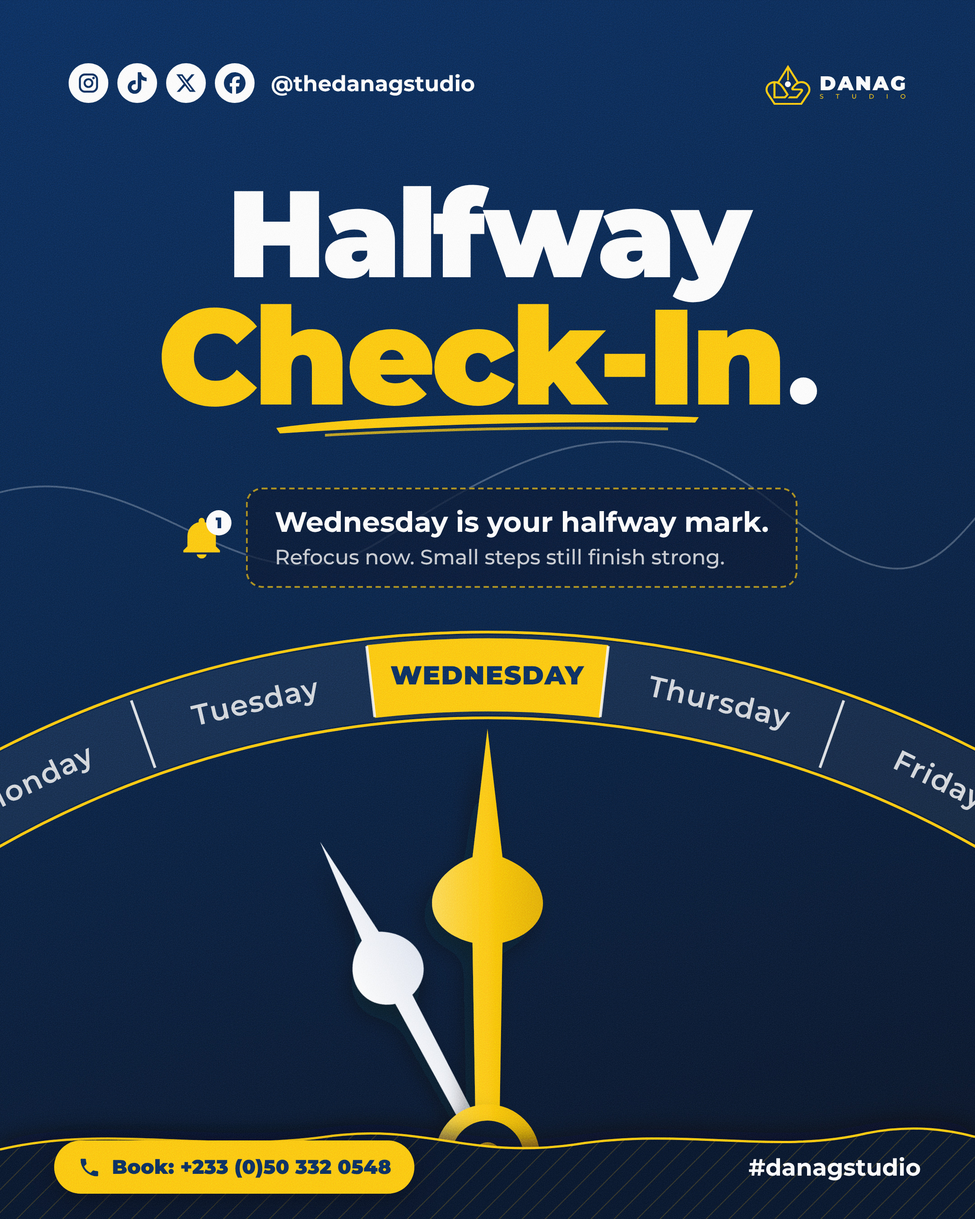
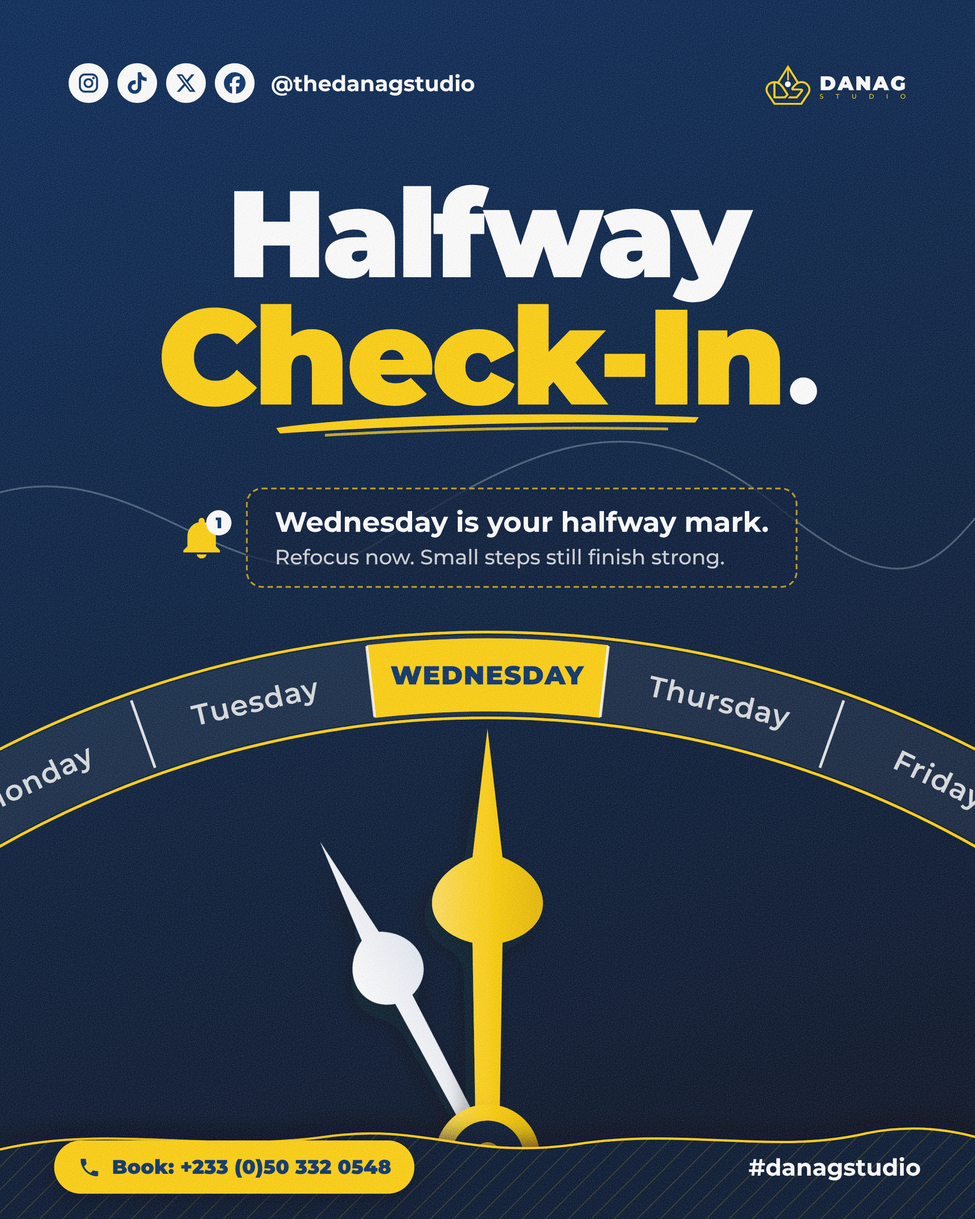
Wed 25 Nov: deeper grain
Claude-Session: https://claude.ai/code/session_016a1VN4sEuNiBsko23wNLQZ

diff --git a/promo/render_wed_dial.py b/promo/render_wed_dial.py
@@ -9,8 +9,8 @@ OUT=sys.argv[1] if len(sys.argv)>1 else f'{R}/flyers/2026-11-25-v1'
 logo=re.sub(r'<\?xml[^>]*>','',open('/home/claude/brand/DANAG-STUDIO-horizontal-on-navy.svg').read()).replace('<svg','<svg style="height:44px;width:auto;display:block"',1)
 ic=lambda k,c,s=20: f'<svg viewBox="0 0 24 24" width="{s}" height="{s}" style="color:{c};flex:none">{IC[k]}</svg>'
 CSS=f'''@font-face{{font-family:M;font-weight:500;src:url({F}montserrat-latin-500-normal.woff2)}}@font-face{{font-family:M;font-weight:600;src:url({F}montserrat-latin-600-normal.woff2)}}@font-face{{font-family:M;font-weight:700;src:url({F}montserrat-latin-700-normal.woff2)}}@font-face{{font-family:M;font-weight:900;src:url({F}montserrat-latin-900-normal.woff2)}}
-*{{margin:0;padding:0;box-sizing:border-box}}body{{width:1080px;height:1350px;overflow:hidden;position:relative;font-family:M;background:linear-gradient(165deg,#022452 0%,#011b3e 45%,#011129 80%,#010b1c 100%)}}.a{{position:absolute}}'''
-noise='''<svg class="a" style="inset:0;width:1080px;height:1350px;z-index:20;pointer-events:none;mix-blend-mode:overlay;opacity:.7"><filter id="nz"><feTurbulence type="fractalNoise" baseFrequency=".9" numOctaves="3" stitchTiles="stitch"/><feColorMatrix type="saturate" values="0"/></filter><rect width="100%" height="100%" filter="url(#nz)"/></svg>'''
+*{{margin:0;padding:0;box-sizing:border-box}}body{{width:1080px;height:1350px;overflow:hidden;position:relative;font-family:M;background:linear-gradient(165deg,#011c44 0%,#01142f 45%,#010c20 80%,#010714 100%)}}.a{{position:absolute}}'''
+noise='''<svg class="a" style="inset:0;width:1080px;height:1350px;z-index:20;pointer-events:none;mix-blend-mode:overlay;opacity:1"><filter id="nz"><feTurbulence type="fractalNoise" baseFrequency=".9" numOctaves="3" stitchTiles="stitch"/><feColorMatrix type="saturate" values="0"/></filter><rect width="100%" height="100%" filter="url(#nz)"/></svg>'''
 # dial
 CX,CY,RO,RI=540,1890,1190,1095
 def pt(r,a): a=math.radians(a); return CX+r*math.sin(a), CY-r*math.cos(a)
@@ -71,7 +71,7 @@ html=f'''<body>
 <g filter="url(#up)"><path d="M0,58 C120,30 230,62 360,44 C470,28 520,70 640,52 C760,34 860,64 960,40 C1010,30 1050,36 1080,44 L1080,160 L0,160 Z" fill="#010d22"/></g>
 <path d="M0,58 C120,30 230,62 360,44 C470,28 520,70 640,52 C760,34 860,64 960,40 C1010,30 1050,36 1080,44 L1080,160 L0,160 Z" fill="url(#pt)"/>
 <path d="M0,58 C120,30 230,62 360,44 C470,28 520,70 640,52 C760,34 860,64 960,40 C1010,30 1050,36 1080,44" fill="none" stroke="#FFC107" stroke-width="2.5"/></svg>
-{noise}<svg class="a" style="inset:0;width:1080px;height:1350px;z-index:21;opacity:.13"><filter id="nz2"><feTurbulence type="fractalNoise" baseFrequency="1.2" numOctaves="2" stitchTiles="stitch"/><feColorMatrix type="saturate" values="0"/></filter><rect width="100%" height="100%" filter="url(#nz2)"/></svg>
+{noise}<svg class="a" style="inset:0;width:1080px;height:1350px;z-index:21;opacity:.24"><filter id="nz2"><feTurbulence type="fractalNoise" baseFrequency=".85" numOctaves="2" stitchTiles="stitch"/><feColorMatrix type="saturate" values="0"/></filter><rect width="100%" height="100%" filter="url(#nz2)"/></svg>
 </body>'''
 with sync_playwright() as p:
     b=p.chromium.launch(executable_path='/usr/bin/google-chrome'); pg=b.new_page(viewport={'width':1080,'height':1350},device_scale_factor=2)
